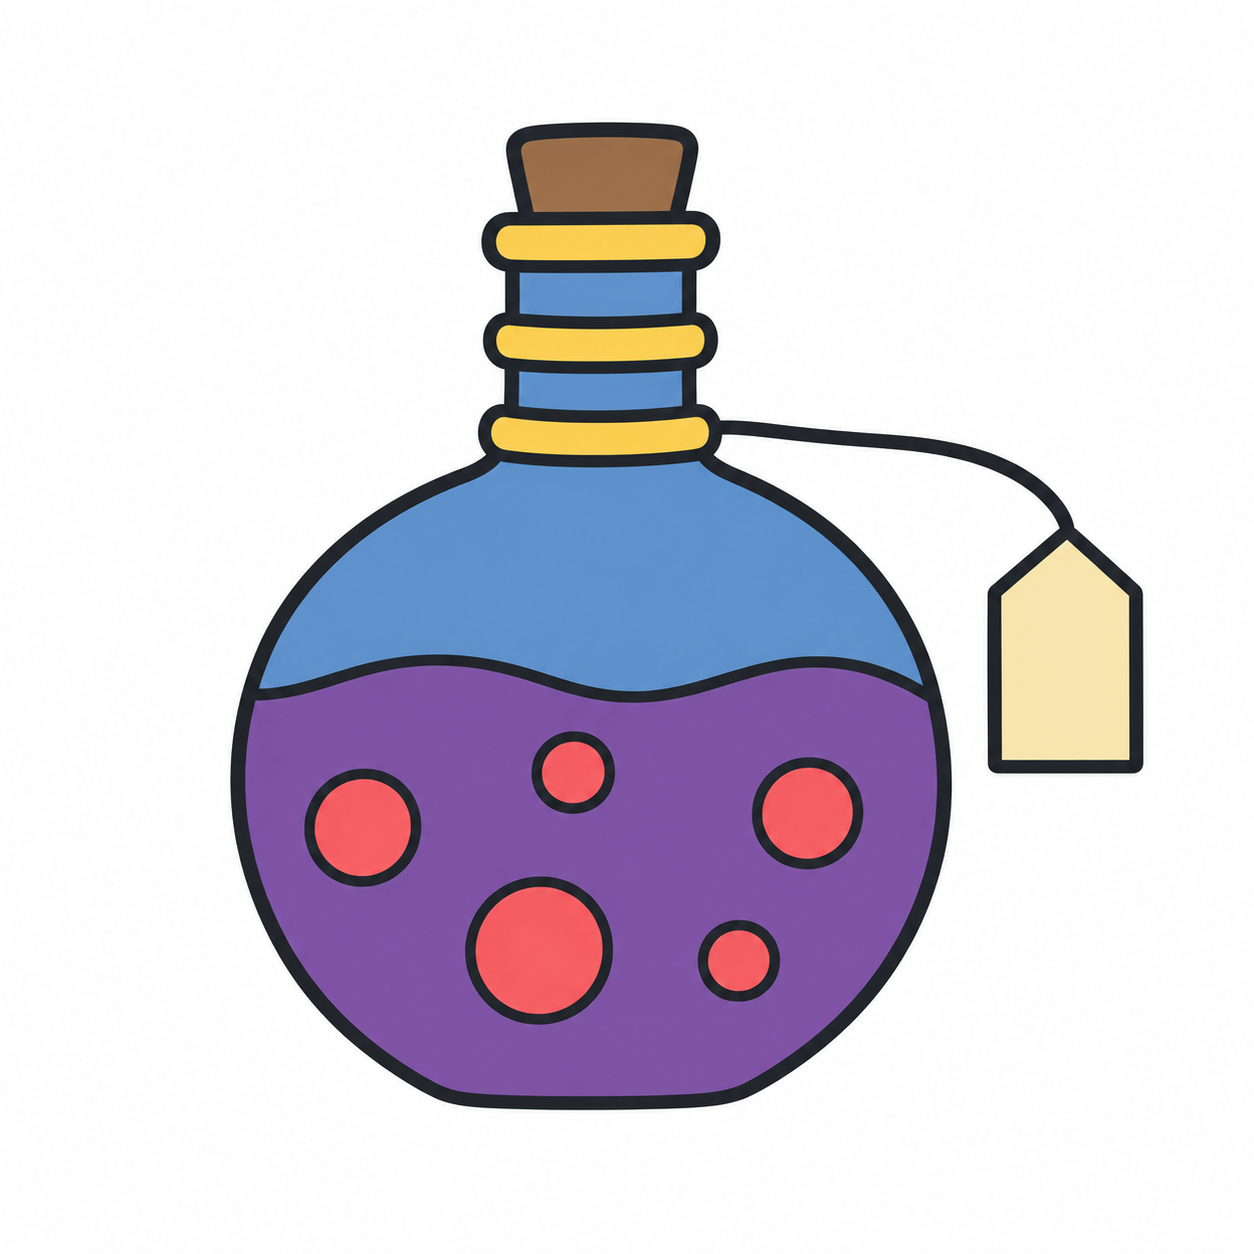
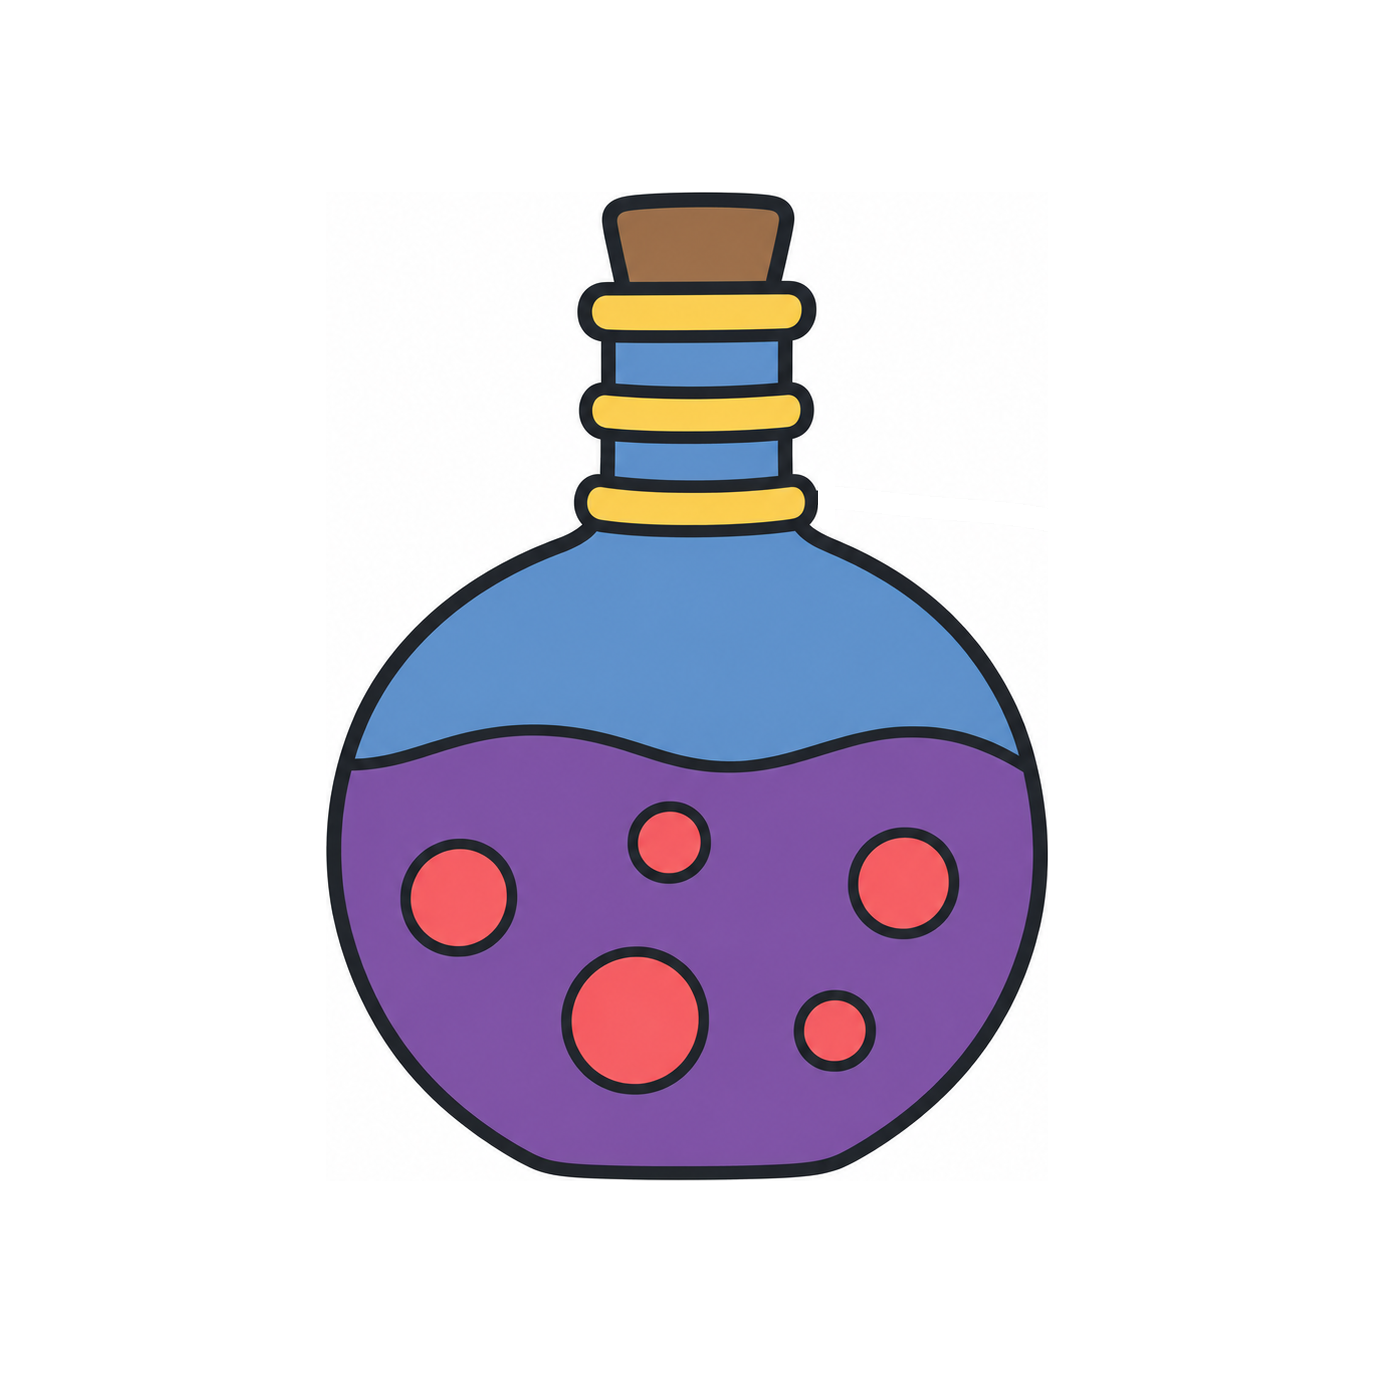
Curriculum: Fantasy Objects reordered, the potion without its tag, the chest's lid made right
The creator's order: the most interesting lesson first (the cauldron), then
easy to complex, the treasure chest last. The potion's tag and string are
painted out of its picture. The chest is redrawn with a rectangular domed lid
whose round end shows on the right (the arch it had only fits a round-topped
box), and recolored red and blue so it is no longer all yellow and orange.
All ten lessons stay narrated drafts.

diff --git a/docs/curriculum/fantasy-objects-prompts.md b/docs/curriculum/fantasy-objects-prompts.md
@@ -11,6 +11,11 @@ lessons' videos (sword, spellbook, cauldron, crystal ball), 8–9 are breathers 
 the treasure chest, with the crown and the sword on its heap, is the finale. The prompts of the first lineup
 (2026-09-21, written for `style-v2`, with the magic wand, the key and the wizard hat) are in git history.
 
+**2026-10-01, reordered (the creator's rule): the most interesting lesson first, then easy to complex, the
+treasure chest last.** The path now runs cauldron, crystal-cluster, crystal-ball, shield, sword, potion-bottle,
+hourglass, crown, spellbook, treasure-chest. The numbers in the headings below are the planning order, not the
+path's.
+
 ## How to run them
 
 - **System prompt: `style-v5-advanced`**, the Advanced level's, copied from the level's menu in the Studio
@@ -56,7 +61,7 @@ Each is complete as written, on top of the system prompt; the counts are the les
 
 ### 1 · `potion-bottle`
 
-Objective: Round flask of purple potion with five bubbles, a ringed neck, a cork and a tag.
+Objective: Round flask of purple potion with five bubbles, a ringed neck and a cork.
 
 The first lesson, posted first on social and shown as a sticker on other paths' videos, so the most
 eye-catching simple picture: a round flask, a colored potion under one wavy line, five bubbles. The neck is a
@@ -65,7 +70,7 @@ the neck.
 
 ```text
 SUBJECT: one round potion flask, upright, with purple potion in it, exactly five bubbles in the
-potion, a neck with exactly three gold rings, a cork, and a tag hanging from the neck on a string.
+potion, a neck with exactly three gold rings, and a cork.
 - Flask: one closed outline: a large round body, almost a circle, a little flattened at the
   bottom so it could stand, and a short straight neck rising from the top of the body, about a
   quarter as wide as the body. Body and neck are one shape with one outline.
@@ -86,17 +91,7 @@ potion, a neck with exactly three gold rings, a cork, and a tag hanging from the
   medium (7%) and two small (5%), spread out over the potion. Each floats: a strip of purple at
   least three line-widths wide lies all around it, and it touches neither the flask's outline,
   nor the wavy line, nor another bubble. Color: watermelon pink #ee5a6a.
-- Tag: one small closed shape with five straight sides: an upright rectangle whose top is a
-  point, like a gift tag, about 13% of the image tall. It hangs in the white to the right of the
-  flask's body, clear of it: a gap of white at least three line-widths wide lies between them.
-  Nothing is written or drawn on it. Color: cream #f6e7b8.
-- String: exactly one single bold line, gently curved, in the same charcoal as the outlines and
-  with no color: not a cord, not a tube. It starts at the right end of the lowest ring and runs
-  out to the right and down to the tag's top point, touching only those two.
-The flask and its tag together fill about 70% of the image across, so the flask itself stands a
-little left of center.
-Nothing else: no label, picture or skull on the flask, no knot or bow on the string, no hole in
-the tag, no bubbles above the potion, no shine lines on the glass, no steam, smoke or drips, no
+Nothing else: no label, picture, tag or string on the flask, no skull, no bubbles above the potion, no shine lines on the glass, no steam, smoke or drips, no
 stand.
 Count the bubbles: five. Count the rings: three.
 ```
@@ -440,15 +435,18 @@ Objective: Open chest in ¾ view: banded domed lid, heaped coins and gems, the c
 
 The finale, built from the path: the crown of lesson 2 and the sword of lesson 4 (attach both kept pictures)
 on a heap of gold with coins and the faceted gems of lesson 9, in an open chest drawn in the spellbook's
-three-quarter view. An open domed lid shows its inside, and its outer bands face away, so the lid has one
-metal band along its arch and the box three upright bands. The crown and the sword are smaller and lose their
+three-quarter view. A domed lid curves from front to back, like half a barrel lying on its side, so when it is
+open and seen from the front it is a rectangle as wide as the box; the dome shows only at its right end, as a
+half-round piece above the box's side (2026-10-01: the first version drew the lid's top as an arch, which only a
+round-topped box could carry; the creator caught it). The crown and the sword stand wholly inside the lid's red
+lining, because where they crossed its rim the trace became a tangle. The crown and the sword are smaller and lose their
 jewels, so the lesson stays within about twenty steps.
 
 ```text
 The attached pictures are the crown and the sword from earlier in the course: draw them here as
 they look there, smaller, with the changes given below.
 SUBJECT: one open treasure chest heaped with gold: a box with exactly three metal bands and a lock
-plate, an open domed lid with a metal band along its arch, and on the heap exactly six coins,
+plate, an open domed lid with metal bands, and on the heap exactly six coins,
 exactly three gems, the crown standing on the heap and the sword stuck into it.
 VIEW: not a flat front view. The chest is seen from the front, a little from the right and a little
 from above, so its long front face and its short right side face both show, and you look down onto
@@ -458,29 +456,36 @@ LIGHT: from the upper left, shown only by the flat colors named for the box's fa
 facets: no shadow, no hatching.
 Here some parts do overlap, and only these: the box's front and right top edges pass in front of
 the bottom of the heap; the heap passes in front of the bottom of the lid and of the sword's point
-and lower blade; the crown and the sword stand in front of the lid.
+and lower blade; the crown and the sword stand in front of the lid's red lining, wholly inside it,
+crossing none of its metal bands.
 - Box: a plain box with straight edges, about twice as long as it is tall. Its long front face,
-  color orange #f08a2c, and its short right side face, which slants up and away to the right,
-  color brown #8a5a33, meet at one upright edge.
+  color red #d8433b, and its short right side face, which slants up and away to the right,
+  color brown #8a5a33, meet at one upright edge. (Recolored 2026-10-01: the creator found the first
+  chest too yellow and orange; the kept picture's front and lining were recolored by hand.)
 - Bands: exactly three upright metal bands, each about 5% of the image wide: two on the front
   face, each about a quarter of the way in from its ends, and one in the middle of the right side
   face. Each band's two edges are straight lines running from the box's top edge to its bottom
   edge, touching both: they divide the face. Color: gray #c9ced6.
 - Lock plate: one small plate in the middle of the front face, near its top, between the two
-  bands: a straight top edge, straight sides and a rounded bottom. It floats: a strip of orange at
+  bands: a straight top edge, straight sides and a rounded bottom. It floats: a strip of red at
   least three line-widths wide lies all around it. Color: yellow #f7cf46. In its middle floats a
   keyhole: one closed shape, a small circle with a short triangle below it, with a strip of yellow
   all around it. Color: purple #7b4fa3.
 - Lid: open, standing up behind the box and leaning back a little, hinged along the box's back top
-  edge. You see its inside: one flat shape as wide as the box, with two straight upright sides and
-  a top edge that is one high, round arch: the dome. Its bottom is hidden behind the heap. Color of
-  the lining: red #d8433b. Along the arch runs one metal band, the lid's rim: a curved band at
-  least three line-widths wide from the top of the left side to the top of the right side, its
-  inner edge one line parallel to the arch. Color: gray #c9ced6. The lid's thickness and its ends
-  are not drawn.
+  edge. The lid is as long as the box and domed like half a barrel lying on its side, curving from
+  front to back, so seen from the front it is a rectangle: you see its inside, one tall flat shape as
+  wide as the box's front, with two straight upright sides and a straight level top edge, never an
+  arch. Its bottom is hidden behind the heap. Color of the lining: blue #5b8fc7. A metal rim runs
+  along its top edge and down both sides: one band at least three line-widths wide, its inner edge
+  one line parallel to the outer edge. Color: gray #c9ced6.
+- Lid end: above the box's right side face, the end of the dome shows as one half-round shape, like
+  a letter D: its straight edge is the lid's right side, and its round edge bulges out to the right
+  and back, slanting the same way as the box's side face. Color: brown #8a5a33, like the box's side.
+  Along its round edge runs one metal band at least three line-widths wide. Color: gray #c9ced6.
+  The lid's thickness is not drawn.
 - Heap: one closed shape with a smooth, rounded top, like a low hill, rising out of the box and
   filling its whole opening, so nothing of the inside of the box shows. Its top stays well below
-  the lid's arch. Color: yellow #f7cf46.
+  the lid's top edge. Color: yellow #f7cf46.
 - Coins: exactly six circles on the heap, all the same size, each about 5% of the image wide,
   spread over the heap. Each floats: a strip of yellow at least three line-widths wide lies all
   around it, and it touches nothing. Nothing is drawn on them. Color: orange #f08a2c.
@@ -491,13 +496,15 @@ and lower blade; the crown and the sword stand in front of the lid.
   pale green #b9dc8a, right leaf green #4f9d4a. One blue gem: left blue #5b8fc7, right purple
   #7b4fa3.
 - Crown: the crown from the attached picture, about 28% of the image wide, standing upright on the
-  left part of the heap, in front of the lid: the bottom edge of its band lies on the heap. It keeps
+  left part of the heap, in front of the lid's lining, with red all around its points and pearls: the
+  bottom edge of its band lies on the heap. It keeps
   its band, its five points with a ball on each tip and its velvet cap showing in the four dips, in
   the same colors. At this size its band has no jewels.
 - Sword: the sword from the attached picture, about 45% of the image long, stuck point down into
   the right part of the heap and leaning a little to the right. A good length of blade shows above
   the heap, with its fuller line; the crossguard with its two curled arms, the grip and the pommel
-  stand in front of the lid, below its rim. At this size the grip has two lines across it, making
+  stand in front of the lid's lining, with red all around them, clear of the rim. At this size the grip
+  has two lines across it, making
   three bands (brown, orange, brown), and the sword has no jewels.
 The chest with its lid fills about 70% of the image across.
 Nothing else: no coins or gems outside the chest, no coins falling, no other treasure (no cups,

diff --git a/docs/curriculum/fantasy-objects-words.md b/docs/curriculum/fantasy-objects-words.md
@@ -19,6 +19,11 @@ and plain, enjoys the subject without being cute, and is never technical.
 
 **Where a picture differs from its prompt, the words follow the picture.**
 
+**2026-10-01, reordered (the creator's rule): the most interesting lesson first, then easy to complex, the
+treasure chest last.** The path now runs cauldron, crystal-cluster, crystal-ball, shield, sword, potion-bottle,
+hourglass, crown, spellbook, treasure-chest. The numbers in the headings below are the planning order, not the
+path's.
+
 ## Rules
 
 1. **US English.** Color, center, gray.
@@ -62,12 +67,12 @@ Step ids follow each lesson's trace. Colors are listed in the order they are pai
 ### potion-bottle
 
 Kept picture: `fantasy-objects/potion-bottle-codex.png` (Codex, first candidate). A round flask with a flat
-bottom; the neck is a stack from the body up: a gold ring, a blue piece of neck, a second ring, a second
-piece, the third ring, then a brown cork. A wavy line with two waves: purple potion below, blue glass above.
-Five pink bubbles (one large at the bottom, two medium, two small). A string from the bottom ring's right end
-to a cream five-sided tag on the right.
+bottom; the neck is a stack from the body up: a gold ring, a blue piece of neck, a second ring, a second piece,
+the third ring, then a brown cork. A wavy line with two waves: purple potion below, blue glass above. Five pink
+bubbles (one large at the bottom, two medium, two small). The creator had the tag and its string taken out
+(2026-10-01): they were painted out of the picture, which was re-centered and traced again.
 
-- intro: "Every wizard keeps a shelf of potions, and this one is ready to pour. It's a round flask, a wavy line of purple and a tag. Watch it brew, then mix up a bottle of your own."
+- intro: "Every wizard keeps a shelf of potions, and this one is ready to pour. It's a round flask, a wavy line of purple and three gold rings. Watch it brew, then mix up a bottle of your own."
 - body-left: "The flask is a big round belly. From the neck, curve down the left side to the flat bottom."
 - body-right: "Now the right side, rounding down from the neck until it meets the bottom."
 - ring-low: "The neck starts with a gold ring. Close the top with a short line, then lay a band with round ends on it."
@@ -75,12 +80,11 @@ to a cream five-sided tag on the right.
 - neck-top: "One more piece of neck, the third ring, and the cork pushed in on top."
 - potion: "Now the potion. A wavy line crosses the flask, a little above the middle."
 - bubbles: "Five bubbles float in the potion. The big one sits low, the four smaller ones around it."
-- tag: "A string swings out from the bottom ring. On its end hangs a tag with a pointed top."
 - purple: "Color the potion purple."
 - blue: "The glass above it and both pieces of neck are blue."
 - pink: "Color the five bubbles pink."
-- gold: "Gold for the three rings, brown for the cork and cream for the tag."
-- outro: "One potion, bottled and labeled. What would you write on that tag?"
+- gold: "Gold for the three rings and brown for the cork."
+- outro: "One potion, corked and ready. What do you think it does?"
 
 ### crown
 
@@ -255,34 +259,37 @@ side blue (in the light), the right side purple (in shadow). No hatching.
 
 ### treasure-chest
 
-Kept picture: `fantasy-objects/treasure-chest-codex.png` (Codex, third of four candidates, the kept crown and sword
-attached; white margin added). The first two let the crown and the sword's hilt spill over the lid's rim, which
-traced into a tangle; a note kept both inside the red lining. The fourth had lines half as thick. An orange box
-seen from the front and a little from the right (brown side), two gray bands on the front and one on the side, a
-gold lock plate with a purple keyhole; the open lid behind it, red inside with a gray rim; a gold heap with six
-orange coins and three gems (red, green and blue, each split down the middle); the crown from lesson 2 on the
-left of the heap (band, five points with pearls, velvet in the dips, no jewels) and the sword from lesson 4 stuck
-in the right of it. The trace was cut at every junction and put back together into 55 lines
-(`.studio/tools/graph.mjs`); the keyhole's outline came from the color-edge trace.
+Kept picture: `fantasy-objects/treasure-chest-codex.png` (Codex, seventh candidate, the kept crown and sword
+attached; recolored and white margin added). Redone 2026-10-01 after the creator pointed out that the first
+chest's lid was an arch on a rectangular box: a domed lid curves front to back, so open and seen from the front
+it is a rectangle, and the dome shows only at its end. Now: a red box front (recolored from orange, with the
+lining recolored from red to blue, because the creator found the chest too yellow and orange), a brown side,
+two gray bands on the front and one on the side, a gold lock plate hanging from the top edge with a purple
+keyhole; the open lid behind, blue inside with a gray rim, its domed right end a brown half-round with a gray
+band; a gold heap with five orange coins and three gems (red, green and blue, each split down the middle); the
+crown from lesson 8 on the left of the heap and the sword from lesson 5 stuck in the right of it. Codex kept
+placing the crown's left pearl on the rim, so the rim's inner line stops at that pearl. The trace was cut at
+every junction and put back together into 54 lines (`.studio/tools/graph.mjs`); the lid is drawn after the
+crown and the sword, so its lines stop where they pass behind them.
 
 - intro: "Every adventure ends with a treasure chest, and this one holds the crown and the sword you drew before. It's a box, a lid and a heap of gold. Watch it fill up, then claim your treasure."
 - box: "The chest is a box. Draw the top edge of its front, then its left side, bottom and right edge."
 - side: "Its right side slants back. A short top edge, then down the back and along the bottom."
 - bands: "Three metal bands wrap the box, two on the front and one on the side. Each is two straight lines."
-- lock: "Between the front bands, a lock plate with a rounded bottom and a keyhole inside."
-- lid: "The open lid stands behind the box, one tall arch. Then a second arch inside it for the rim."
-- crown-band: "The crown from earlier sits in the chest. Start with its band: a curved top line, then sides and bottom."
+- lock: "Between the front bands, a lock plate hangs from the top edge, with a keyhole inside."
+- heap: "Gold piles up out of the box. Draw its bumpy top on each side, leaving room for the crown."
+- crown-band: "The crown from earlier sits on the gold. Start with its band: a curved top line, then sides and bottom."
 - crown-points: "Five points zigzag up from the band, the middle one tallest, just as before."
-- pearls: "Put a pearl on each point, finishing the last two where the zigzag left gaps."
+- pearls: "Put a pearl on each point, finishing the ones the zigzag left open."
 - velvet: "In each of the four dips, a short curve marks the velvet."
-- guard: "The sword from earlier is stuck in the gold. Draw its guard first, both arms curling."
-- blade: "The blade runs down from the guard into the heap: two edges and the groove between them."
+- sword: "The sword from earlier is stuck in the gold. Draw its guard, then the blade and its groove down into the heap."
 - grip: "Above the guard, the grip with two wraps, and the round knob on top."
-- heap: "Gold piles up out of the box. Its bumpy top runs out from both sides of the crown."
-- coins: "Six round coins lie scattered on the gold."
+- lid: "The open lid stands behind it all. Draw its top and left side, its right side, then the rim inside."
+- lid-end: "The lid is domed, and its round end shows on the right, like a letter D, with a band along its curve."
+- coins: "Five round coins lie scattered on the gold."
 - gems: "Three gems sit among the coins: diamonds, each split down the middle by one line."
-- red-gray: "Color the lining red, and the dark half of the red gem. The rim, the bands and the blade are gray."
-- gold: "Yellow for all the gold: the heap, the crown, the guard, the knob and the lock."
-- wood: "Orange for the box front, the coins and the crown's band. Brown for the box's side and the grip."
-- jewels: "Last, cream pearls, purple velvet and keyhole, and the gems: pink, two greens, blue and purple."
+- red-brown: "Color the box front red, and the red gem's dark half. The side and the lid's round end are brown."
+- blue-gray: "Blue for the lining and half of the blue gem. The bands, the rims and the blade are gray."
+- gold: "Yellow for the heap, crown, guard, knob and lock. Orange for the coins and the crown's band."
+- jewels: "Last, cream pearls; purple for the velvet, the keyhole and a gem half; pink and greens for the gems."
 - outro: "The chest is full and the treasure is yours. Just remember where you buried it."
